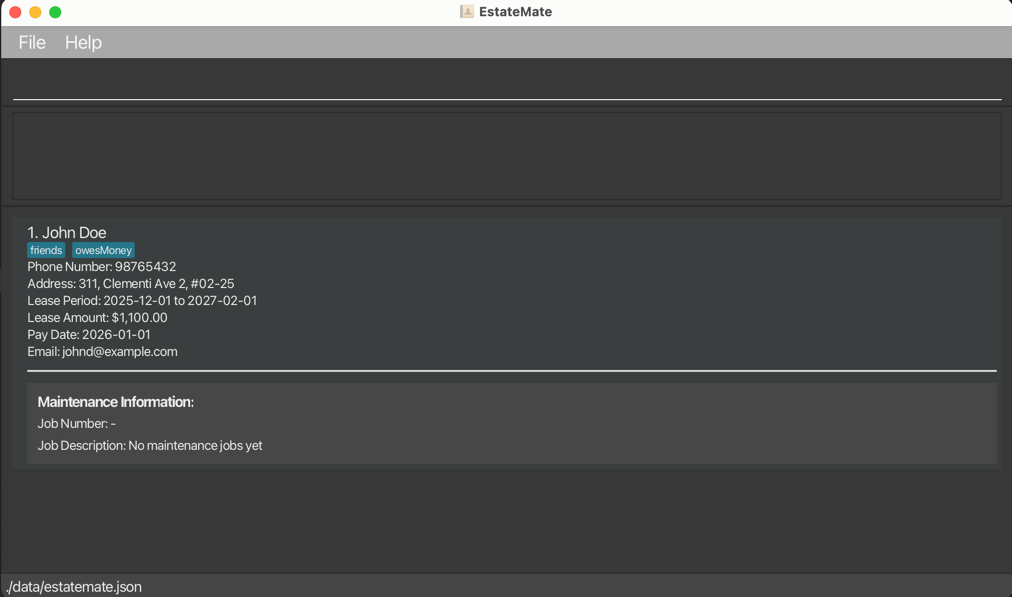
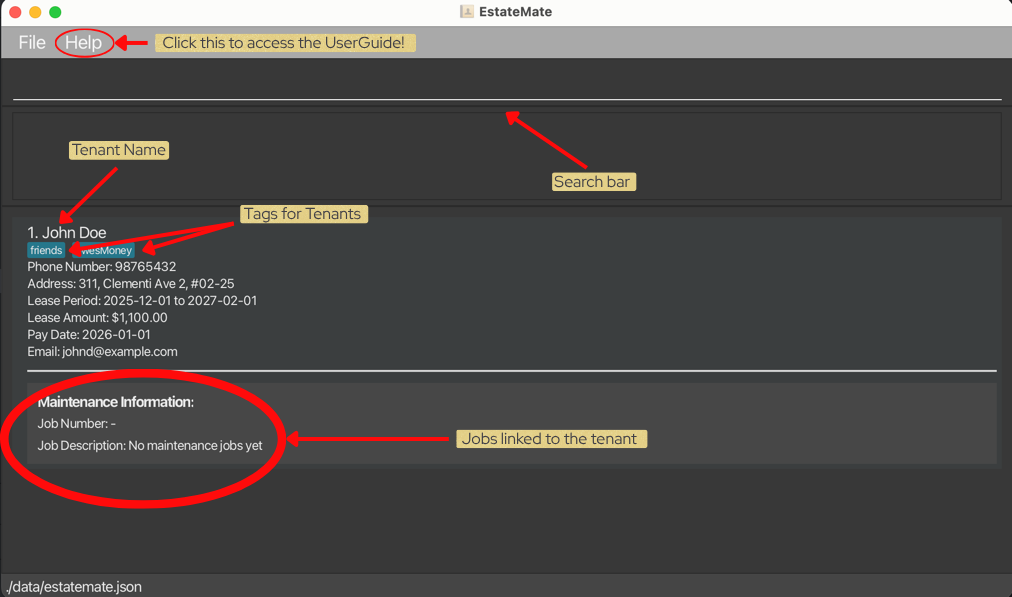
Update UserGuide.md

diff --git a/docs/UserGuide.md b/docs/UserGuide.md
@@ -98,7 +98,7 @@ keep your properties running smoothly.
 
 6. Use `cd [folder path]` to navigate into the folder you put the jar file in, and use the `java -jar estatemate.jar` command to run the application.<br>
    A GUI similar to the below should appear in a few seconds. Note how the app contains some sample data.<br>
-   <img src="images/Updated_GUI_v1.png" alt="Updated GUI v1" width="600">
+   <img src="images/Updated_GUI_v2.png" alt="Updated GUI v2" width="600">
 
 7. Type the command in the command box and press Enter to execute it. e.g. typing **`help`** and pressing `Enter` will open the help window.<br>
    Some example commands you can try:
@@ -120,7 +120,6 @@ keep your properties running smoothly.
 
 ### 2.2 User Interface Overview
 
-- insert UI (coming soon...)
 Upon opening the application, you should see the following UI:
 ![mainWindow.png](images/mainWindow.png)
 
